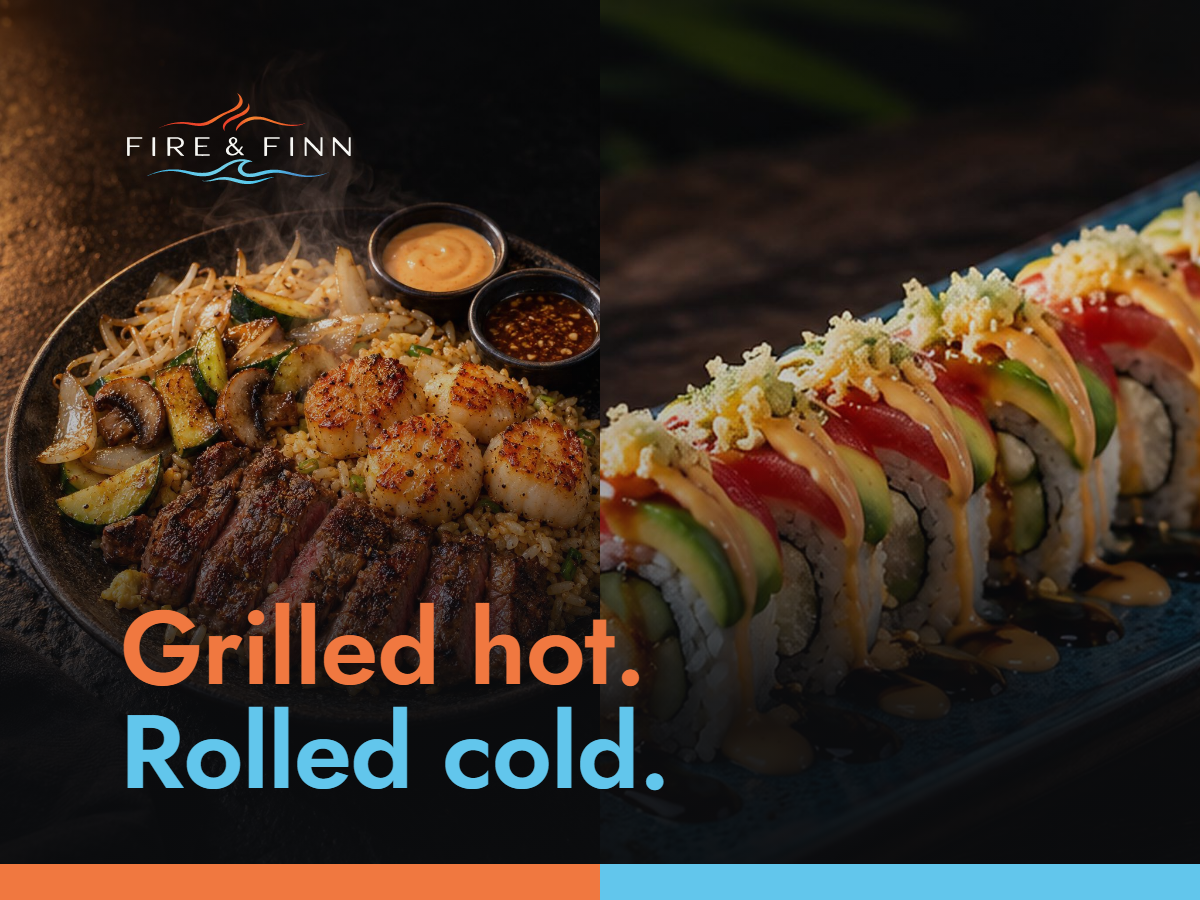
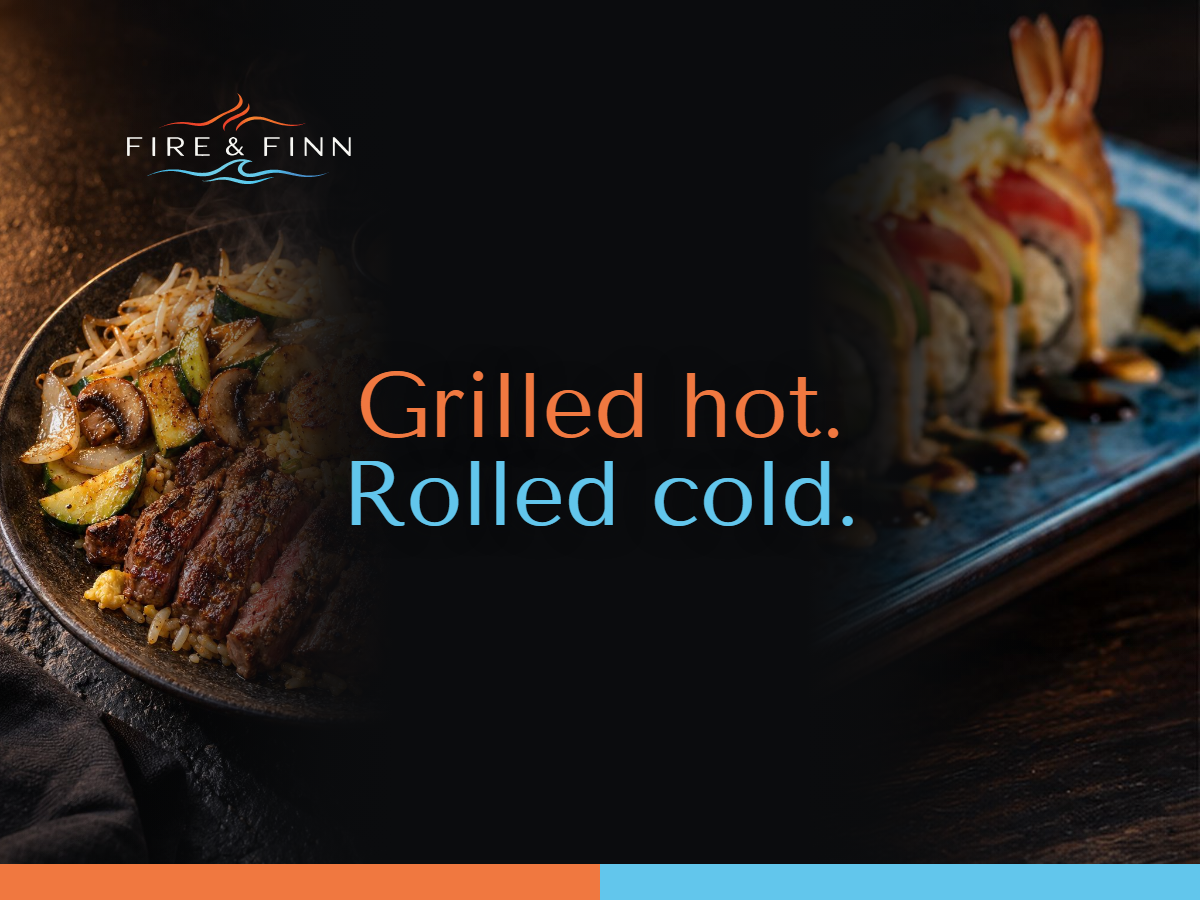
GBP posts, board fixes: hero post rebuilt as the share card at 4:3 in Tenor Sans, order post names the site and phone instead of a pickup promise, posts.md loses the schedule and gets exact counts

diff --git a/menu-source/gbp/posts.html b/menu-source/gbp/posts.html
@@ -10,8 +10,10 @@
   feed's crop and rounded corners never touch it; only photographs and the baseline reach the edges.
   One image per ?post=name:
     rename   Island Panda is now Fire & Finn. Same kitchen. Same address. New name.   (typographic)
-    hero     Grilled hot. Rolled cold. over the split hero: hot plate left, roll right  (two photographs)
-    order    Order ahead for pickup. Skip the line, it's ready when you get here.      (roll photograph)
+    hero     Grilled hot. Rolled cold.: the 4:3 version of the site's share card (review/site-creative/og-card.html).
+             Hot plate left, roll right, each faded fully into the ground before the centre, the line in Tenor Sans
+             in the dark gap between them, exactly as the site and the card set it.
+    order    Order ahead for pickup. fireandfinn.com or the phone.                      (roll photograph)
   The order link lives in the post's button, never in the image. No QR codes. Post text is in posts.md.
   Render: msedge --headless=new --disable-gpu --hide-scrollbars --virtual-time-budget=4000 --window-size=1200,900
           --screenshot=rename.png "file:///.../posts.html?post=rename"
@@ -20,6 +22,7 @@
   @font-face { font-family: "Jost"; font-weight: 400; src: url("../../assets/fonts/Jost-400.woff2") format("woff2"); }
   @font-face { font-family: "Jost"; font-weight: 500; src: url("../../assets/fonts/Jost-500.woff2") format("woff2"); }
   @font-face { font-family: "Jost"; font-weight: 600; src: url("../../assets/fonts/Jost-600.woff2") format("woff2"); }
+  @font-face { font-family: "Tenor Sans"; font-weight: 400; src: url("../../assets/fonts/TenorSans-Regular.woff2") format("woff2"); }
   :root { --bg:#0B0C0E; --ink:#F2F0EB; --muted:#CFCAC2; --dim:#A39D95; --fire:#F07840; --sea:#62C6EC; --sx:120px; --sy:90px; --base:36px; }
   * { box-sizing: border-box; margin: 0; }
   html, body { width: 1200px; height: 900px; overflow: hidden; background: var(--bg); color: var(--ink); font-family: "Jost", sans-serif; }
@@ -36,12 +39,19 @@
   .meta { margin-top: 30px; font: 400 30px/1.45 "Jost"; color: var(--muted); }
   .meta b { font-weight: 500; color: var(--ink); }
 
-  /* hero: two photographs, one seam, the line over a dark scrim */
-  .hero .ph { position: absolute; top: 0; width: 600px; height: 900px; object-fit: cover; }
-  .hero .ph.l { left: 0; object-position: 55% 30%; } .hero .ph.r { left: 600px; object-position: 45% 30%; }
-  .hero .scrim { position: absolute; inset: 0; background: linear-gradient(180deg, rgba(11,12,14,.66) 0%, rgba(11,12,14,.14) 30%, rgba(11,12,14,.30) 52%, rgba(11,12,14,.90) 78%, rgba(11,12,14,.96) 100%); }
-  .hero .copy { justify-content: flex-end; top: auto; bottom: calc(var(--sy) + 6px); }
-  .hero h1 { font-size: 104px; }
+  /* hero: the share card at 4:3. Each photograph is fully dark before the centre, so the line sits in real darkness */
+  .hero .half { position: absolute; top: 0; bottom: 0; width: 41%; overflow: hidden; }
+  .hero .half img { width: 100%; height: 100%; object-fit: cover; display: block; }
+  .hero .half::after { content: ""; position: absolute; inset: 0; }
+  .hero .h-hot { left: 0; } .hero .h-hot img { object-position: 16% 55%; }
+  .hero .h-hot::after { background: linear-gradient(90deg, rgba(11,12,14,.1) 0, rgba(11,12,14,0) 22%, rgba(11,12,14,.45) 46%, rgba(11,12,14,.9) 66%, #0B0C0E 80%),
+                                     linear-gradient(180deg, rgba(11,12,14,.6) 0, rgba(11,12,14,0) 30%, rgba(11,12,14,0) 70%, rgba(11,12,14,.55) 100%); }
+  .hero .h-cold { right: 0; } .hero .h-cold img { object-position: 100% 50%; }
+  .hero .h-cold::after { background: linear-gradient(270deg, rgba(11,12,14,.1) 0, rgba(11,12,14,0) 22%, rgba(11,12,14,.45) 46%, rgba(11,12,14,.9) 66%, #0B0C0E 80%),
+                                      linear-gradient(180deg, rgba(11,12,14,.5) 0, rgba(11,12,14,0) 30%, rgba(11,12,14,0) 70%, rgba(11,12,14,.55) 100%); }
+  .hero .seam { position: absolute; left: 50%; top: 50%; transform: translate(-50%, -50%); text-align: center; white-space: nowrap; }
+  .hero .seam h1 { font: 400 92px/.96 "Tenor Sans", serif; letter-spacing: -.01em; text-shadow: 0 2px 28px rgba(11,12,14,.9); }
+  .hero .seam h1 span { display: block; }
 
   /* order: dark left, the roll on the right feathered into the ground */
   .order .ph { position: absolute; right: 0; top: 0; width: 600px; height: 900px; object-fit: cover; object-position: 40% 50%;
@@ -65,13 +75,10 @@
 </section>
 
 <section class="post hero" id="hero">
-  <img class="ph l" src="../../assets/food/hero-hibachi.jpg" alt="">
-  <img class="ph r" src="../../assets/food/fire-and-finn-roll.jpg" alt="">
-  <div class="scrim"></div>
+  <div class="half h-hot"><img src="../../assets/food/hero-hibachi.jpg" alt=""></div>
+  <div class="half h-cold"><img src="../../assets/food/fire-and-finn-roll.jpg" alt=""></div>
   <img class="logo" src="../../assets/logo-compact.svg" alt="">
-  <div class="copy">
-    <h1><span class="hot">Grilled hot.</span><br><span class="cold">Rolled cold.</span></h1>
-  </div>
+  <div class="seam"><h1><span class="hot">Grilled hot.</span><span class="cold">Rolled cold.</span></h1></div>
   <div class="base"></div>
 </section>
 
@@ -81,7 +88,7 @@
   <img class="logo" src="../../assets/logo-compact.svg" alt="">
   <div class="copy">
     <h1>Order ahead for pickup.</h1>
-    <p class="sub">Skip the line,<br>it’s ready when you get here.</p>
+    <p class="sub"><span class="cold" style="font-weight:600">fireandfinn.com</span><br>or call <span style="color:var(--ink);font-weight:500" data-loc="phone"></span></p>
   </div>
   <div class="base"></div>
 </section>

diff --git a/menu-source/gbp/posts.md b/menu-source/gbp/posts.md
@@ -1,6 +1,8 @@
-# Google Business Profile posts (rebrand, first weeks)
+# Google Business Profile posts (rebrand)
 
-Three posts, each an image from `posts.html` (1200 × 900, rendered to the PNG named here) and the text below. Text is under 300 characters, plain, no hashtags, no emoji, no claim beyond what the site and the signage already say. Nothing here is posted by anyone but the owner. Post them in this order, a few days apart; the rename post first.
+Three posts, each an image from `posts.html` (1200 × 900, rendered to the PNG named here) and the text below. Text is under 300 characters, plain, no hashtags, no emoji, no claim beyond what the site and the signage already say. Nothing here is posted by anyone but the owner.
+
+**Post the rename now. It stays up through April**: people arriving in January search the old name from out of state. The other two are optional, any time, in no particular order.
 
 Render the images with:
 
@@ -16,11 +18,11 @@ Post type: Update. Button: none.
 
 > Island Panda is now Fire & Finn. Same kitchen, same address, new name. Hibachi, sushi and poke at 2003 Periwinkle Way, Sanibel. Open daily 11am to 8pm.
 
-(154 characters)
+(151 characters)
 
 ## 2. Grilled hot. Rolled cold. — `hero.png`
 
-Post type: Update. Button: Learn more → https://fireandfinn.com
+The site's share card at 4:3: hot plate left, roll right, the line in Tenor Sans in the dark gap between them. Post type: Update. Button: Learn more → https://fireandfinn.com
 
 > Grilled hot. Rolled cold. Hibachi seared to order on one side of the menu, specialty rolls, classic rolls and build-your-own poke on the other. 2003 Periwinkle Way, Sanibel. Open daily 11am to 8pm.
 
@@ -28,15 +30,14 @@ Post type: Update. Button: Learn more → https://fireandfinn.com
 
 ## 3. Order ahead — `order.png`
 
-Post type: Update. Button: Order online → https://order.toasttab.com/online/fire-and-finn-2003-periwinkle-way (the same `ORDER_URL` the site uses; the link lives in the button, never in the image).
+Post type: Update. Button: Order online → https://order.toasttab.com/online/fire-and-finn-2003-periwinkle-way (the same `ORDER_URL` the site uses; the link lives in the button, never in the image). The image names the site and the phone for people who will not tap.
 
-> Order ahead for pickup. Skip the line, it's ready when you get here. Tap Order online to start.
+> Order ahead for pickup at fireandfinn.com, or call (239) 579-0783. 2003 Periwinkle Way, Sanibel.
 
 (96 characters)
 
 ## Rules
 
 - Image text stays inside the central 80 % of the frame; Google crops to 4:3 and rounds the corners.
-- Fonts and colours are the site's and the slides': Jost, ground `#0B0C0E`, ink `#F2F0EB`, fire `#F07840`, sea `#62C6EC`.
-- No QR codes, no prices in the images (prices live on the boards and the menu page), no "same family" or sourcing claims.
-- Retire the rename post from the profile the day the permanent sign goes up; the other two can stay.
+- Fonts and colours are the site's and the slides': Jost and Tenor Sans, ground `#0B0C0E`, ink `#F2F0EB`, fire `#F07840`, sea `#62C6EC`.
+- No QR codes, no prices in the images (prices live on the boards and the menu page), no "same family" or sourcing claims, no promise about how fast an order is ready.
